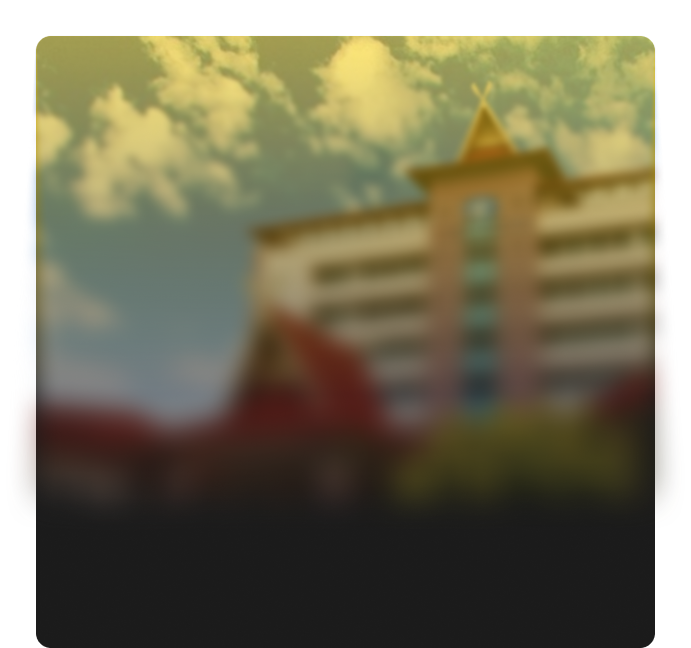
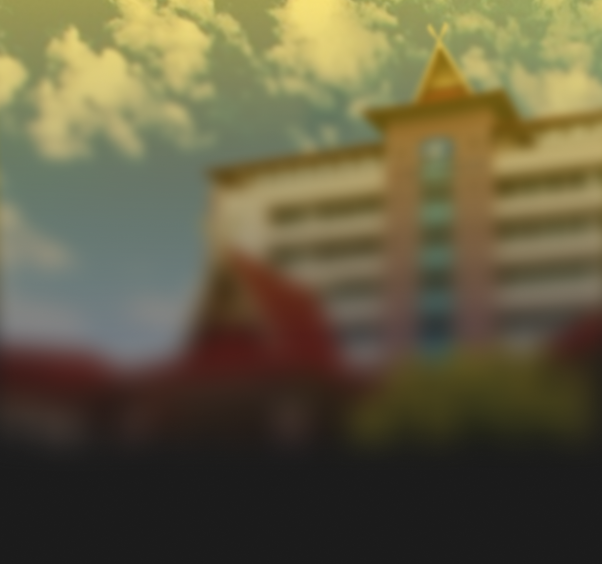
Add responsiveness to Kontak Page

diff --git a/src/components/Kontak/HubungiKami.jsx b/src/components/Kontak/HubungiKami.jsx
@@ -1,24 +1,39 @@
-import React from 'react';
-import bg_star from '../../assets/HubungiPage/bg_star.png';
-import cardImage from '../../assets/HubungiPage/imagecard.png';
+import { React, useState, useEffect } from "react";
+import bg_star from "../../assets/HubungiPage/bg_star.png";
+import cardImage from "../../assets/HubungiPage/imagecard.png";
+import cardImageLarge from "../../assets/HubungiPage/imagecard-large.png";
 import FlipLeft from "../Animation/FlipLeft";
 import FlipRight from "../Animation/FlipRight";
 
 const HubungiKami = () => {
+  const [isMediumScreen, setIsMediumScreen] = useState(false);
+  useEffect(() => {
+    const handleResize = () => {
+      setIsMediumScreen(window.innerWidth >= 768 && window.innerWidth < 1024);
+    };
+
+    handleResize();
+    window.addEventListener("resize", handleResize);
+
+    return () => window.removeEventListener("resize", handleResize);
+  }, []);
+
+  const cardBg = isMediumScreen ? cardImageLarge : cardImage;
+
   return (
     <div
       className="w-full bg-no-repeat"
       style={{ backgroundImage: `url(${bg_star})` }}
     >
-      <div className="lg:max-w-screen-lg mx-auto grid grid-cols-1 md:grid-cols-2 gap-5 py-20">
+      <div className="lg:max-w-screen-lg mx-auto grid grid-cols-1 lg:grid-cols-2 lg:gap-5 lg:py-20 items-stretch">
         {/* Kartu Kontak */}
         <FlipLeft>
-          <div className="relative rounded-2xl overflow-hidden text-white shadow-xl">
+          <div className="h-full relative lg:rounded-2xl overflow-hidden text-white lg:shadow-xl">
             <div
-              className="bg-opacity-60 p-15 h-full flex flex-col"
+              className="bg-opacity-60 px-4 md:px-16 py-16 h-full flex flex-col bg-cover"
               style={{
-                backgroundImage: `url(${cardImage})`,
-                backgroundPosition: 'center',
+                backgroundImage: `url(${cardBg})`,
+                backgroundPosition: "center",
               }}
             >
               <div>
@@ -37,7 +52,10 @@ const HubungiKami = () => {
               <div className="space-y-6">
                 <div className="flex items-start gap-3">
                   <div className="bg-primary p-3 rounded-full">
-                    <img src="/icon/ic_call_black.svg" className="size-7" />
+                    <img
+                      src="/icon/ic_call_black.svg"
+                      className="size-5 lg:size-7"
+                    />
                   </div>
                   <div>
                     <p className="font-bold">Aurellia - Sekretaris 1</p>
@@ -46,7 +64,10 @@ const HubungiKami = () => {
                 </div>
                 <div className="flex items-start gap-3">
                   <div className="bg-primary p-3 rounded-full">
-                    <img src="/icon/ic_call_black.svg" className="size-7" />
+                    <img
+                      src="/icon/ic_call_black.svg"
+                      className="size-5 lg:size-7"
+                    />
                   </div>
                   <div>
                     <p className="font-bold">Kayla - Sekretaris 2</p>
@@ -55,7 +76,10 @@ const HubungiKami = () => {
                 </div>
                 <div className="flex items-start gap-3">
                   <div className="bg-primary p-3 rounded-full">
-                    <img src="/icon/ic_email_black.svg" className="size-7" />
+                    <img
+                      src="/icon/ic_email_black.svg"
+                      className="size-5 lg:size-7"
+                    />
                   </div>
                   <div>
                     <p className="font-bold">Contact Us!</p>
@@ -69,7 +93,7 @@ const HubungiKami = () => {
 
         {/* Form Kirim Pesan */}
         <FlipRight>
-          <div className="bg-white p-10 rounded-2xl shadow-[0_0_10px_rgba(0,0,0,0.1)]">
+          <div className="h-full bg-white px-4 py-10 md:px-16 lg:px-10 lg:rounded-2xl lg:shadow-[0_0_10px_rgba(0,0,0,0.1)]">
             <h3 className="text-4xl font-black mb-6">Kirim Kami Pesan</h3>
             <form className="space-y-1">
               <div className="grid grid-cols-1 md:grid-cols-2 gap-4">
@@ -100,14 +124,20 @@ const HubungiKami = () => {
                   />
                 </div>
               </div>
-              <label htmlFor="email" className="text-sm text-gray-800 font-bold">
+              <label
+                htmlFor="email"
+                className="text-sm text-gray-800 font-bold"
+              >
                 Email
               </label>
               <input
                 type="email"
                 className="w-full border p-3 rounded-md bg-accent-3 border-transparent"
               />
-              <label htmlFor="subjek" className="text-sm text-gray-800 font-bold">
+              <label
+                htmlFor="subjek"
+                className="text-sm text-gray-800 font-bold"
+              >
                 Subjek
               </label>
               <input
@@ -115,7 +145,10 @@ const HubungiKami = () => {
                 className="w-full border p-3 rounded-md bg-accent-3 border-transparent"
                 id="subjek"
               />
-              <label htmlFor="pesan" className="text-sm text-gray-800 font-bold">
+              <label
+                htmlFor="pesan"
+                className="text-sm text-gray-800 font-bold"
+              >
                 Pesan
               </label>
               <textarea

diff --git a/src/pages/Pengurus.jsx b/src/pages/Pengurus.jsx
@@ -21,7 +21,7 @@ const Pengurus = () => {
 
   return (
     <div>
-      {/* <Header /> */}
+      <Header />
       <AltHero label="Temui Tim Kami" title="Badan Pengurus Harian" addStyle="pengurus"/>
 
       {isLargeScreen ? (
